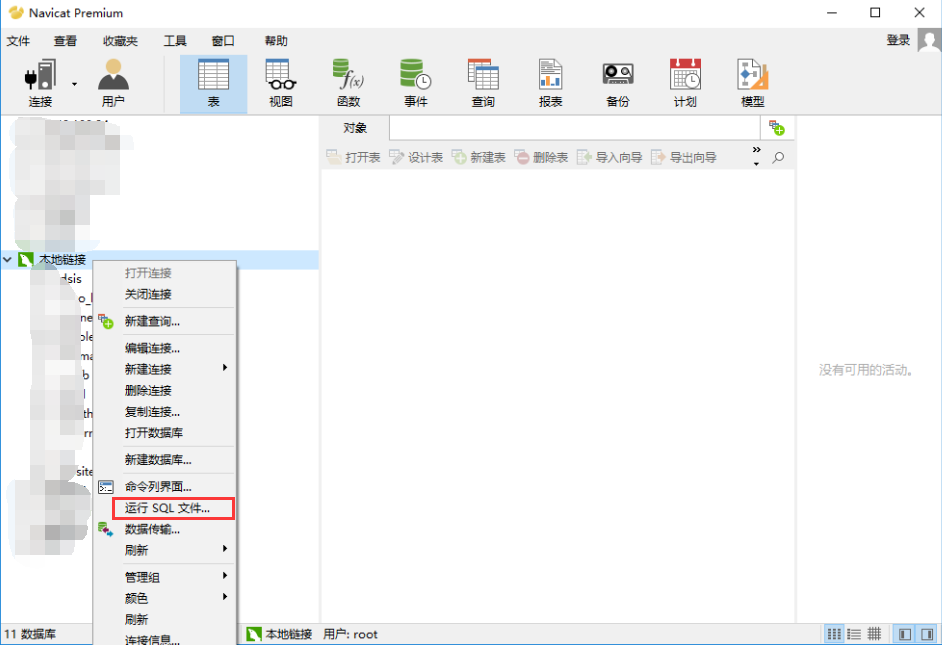
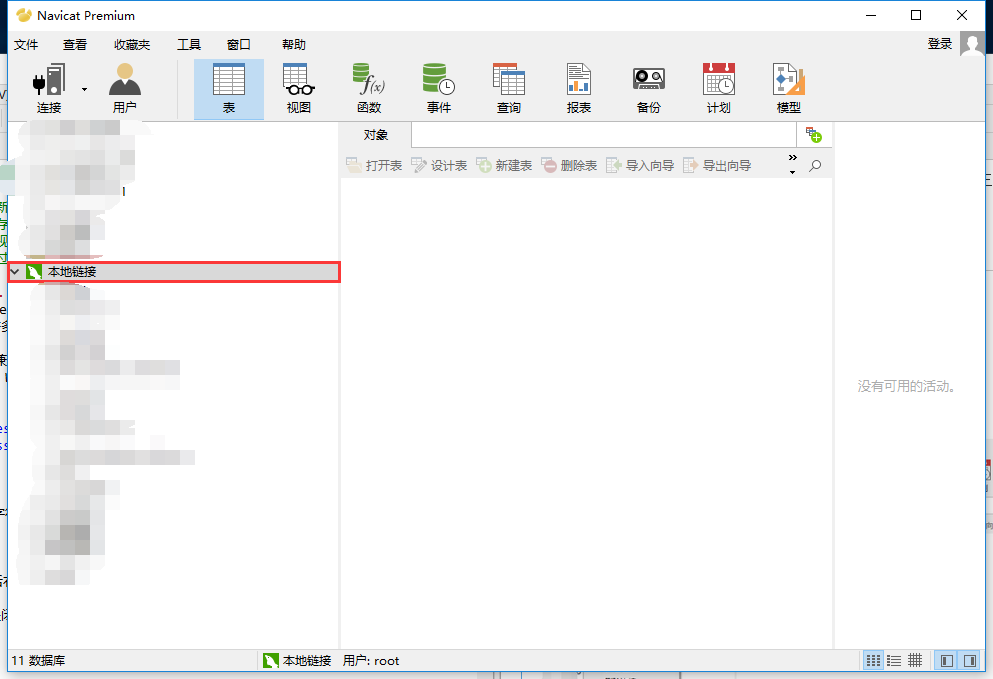
错误修正

diff --git a/sql/sql.md b/sql/sql.md
@@ -29,8 +29,12 @@
 [apps](file/apps.sql)
 
 ### sql文件导入操作
-选定要导入的数据库，然后右键，点击运行sql文件。
+1.新建数据库，websites,字符集选utf-8
+
+右键新建数据库
 ![](img/108.png)
+2.选定要导入的数据库，然后右键，点击运行sql文件。
+![](img/109.png)
 导入完成后刷新数据库或者关闭再打开
 
 ## 在您的网站中使用 SQL
